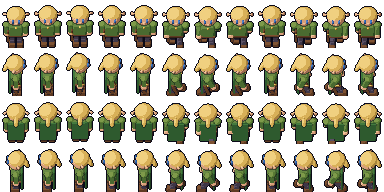
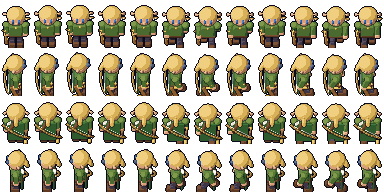
An emerald in Queen Alyssa's circlet; Beckolas's longbow and quiver, and a sword you can see
Claude-Session: https://claude.ai/code/session_012fRrXZHBmpRtnLUqLRWaUW

diff --git a/tools/bridge-art/characters.py b/tools/bridge-art/characters.py
@@ -242,10 +242,11 @@ NPCS = {
     'npc-alyssa':    dict(skin='skin0', shirt=('#2a5a2a', '#3e7a38', '#5a9a4a'), skirt=('#2a5a2a', '#3e7a38', '#5a9a4a'),
                           trim=('#8a6a10', '#c89a20', '#f0d060'), belt=('#8a6a10', '#c89a20', '#f0d060'),
                           hair=('#a8843a', '#d8b058', '#f0d080'), long_hair='flowing', elf_ears=True,
-                          circlet=('#8a6a10', '#c89a20', '#f0d060'), gown=True, shoes=('#8a6a10', '#c89a20', '#f0d060'), pose='sit'),
+                          circlet=('#8a6a10', '#c89a20', '#f0d060'), gem=('#0a6a3a', '#18b060', '#80f0b0'), gown=True, shoes=('#8a6a10', '#c89a20', '#f0d060'), pose='sit'),
     'npc-beckolas':  dict(skin='skin', shirt=('#2e4a22', '#4a6a30', '#6a8a44'), armour=('#3a5a26', '#5a7a34', '#7e9a4a'),
                           cloak=('#1e3a1e', '#2e5a2e', '#447a3e'), trim=('#7a5a20', '#c8a040', '#f0d070'),
-                          hair=('#a8843a', '#d8b058', '#f0d080'), ponytail=True, elf_ears=True, sword=True,
+                          hair=('#a8843a', '#d8b058', '#f0d080'), ponytail=True, elf_ears=True, sword=True, bow=True,
+                          scabbard=('#5a3a1a', '#8a5a2a', '#b07a3a'), bowwood=('#6a4a20', '#a07a38', '#d0a858'), fletch=('#c8c0b0', '#ece4d4', '#ffffff'),
                           eye=('#1a3a6a', '#2a5aa0', '#4a80c8'), pose='stand'),
     'npc-elf-warden': dict(skin='skin', shirt=('#3a4a2a', '#56683a', '#748a50'), cloak=('#2a3a22', '#3e5430', '#566e42'),
                            hair=('#5a3a1a', '#8a5a2a', '#aa7a42'), long_hair=True, elf_ears=True, pose='stand'),
@@ -720,10 +721,33 @@ def build_human(spec):
     if 'cloak' in spec:          # hangs from the shoulders down the back
         add('cube', 'cloak', (0, 3.2, 10.6), (4.6, 0.6, 6.6), 'cloak', 'cloak', body, bevel=0.4)
         add('cube', 'cloak_clasp', (0, -2.9, 16.3), (0.6, 0.3, 0.6), 'trim' if 'trim' in spec else 'brass', 'torso', body)
-    if spec.get('sword'):        # a sheathed sword at the left hip, hilt forward
-        add('cube', 'scabbard', (-4.6, 0.6, 7.2), (0.5, 0.8, 3.6), 'leather', 'sword', body, rot=(-0.35, 0, 0), bevel=0.15)
-        add('cube', 'crossguard', (-4.6, -1.0, 11.0), (0.5, 1.5, 0.35), 'brass', 'sword', body)
-        add('cube', 'grip', (-4.6, -1.5, 12.4), (0.35, 0.35, 1.3), 'leather', 'sword', body, rot=(-0.35, 0, 0))
+    if spec.get('sword'):        # a long sheathed sword at the left hip, out from the body so it reads, hilt forward
+        add('cube', 'scabbard', (-5.6, 0.9, 6.0), (0.6, 0.9, 4.6), 'scabbard', 'sword', body, rot=(-0.4, 0, 0.12), bevel=0.2)
+        add('cube', 'chape', (-5.4, 2.6, 1.9), (0.7, 1.0, 0.6), 'brass', 'sword', body, rot=(-0.4, 0, 0.12))
+        add('cube', 'crossguard', (-6.0, -1.0, 10.4), (0.6, 2.0, 0.45), 'brass', 'sword', body)
+        add('cube', 'grip', (-6.0, -1.6, 11.8), (0.45, 0.45, 1.3), 'leather', 'sword', body, rot=(-0.4, 0, 0))
+        add('uv_sphere', 'pommel', (-6.0, -2.1, 13.2), (0.7, 0.7, 0.7), 'brass', 'sword', body, segments=8, ring_count=6)
+    if spec.get('bow'):          # a longbow slung across the back, a quiver of arrows over the right shoulder
+        tilt = math.radians(35)
+        prev = None
+        for i in range(11):
+            t = -1 + 2 * i / 10
+            u, v = t * 9.0, 2.2 * (1 - t * t)                  # along the bow, and the curve out from the back
+            p = (math.cos(tilt) * u, 4.2 + v, 12.0 + math.sin(tilt) * u)
+            if prev:
+                d = [p[j] - prev[j] for j in range(3)]
+                L = math.sqrt(sum(c * c for c in d))
+                mid = tuple((p[j] + prev[j]) / 2 for j in range(3))
+                add('cube', 'bow', mid, (0.38, 0.38, L / 2 + 0.1), 'bowwood', 'bow', body,
+                    rot=(-math.atan2(d[1], math.hypot(d[0], d[2])), math.atan2(d[0], d[2]), 0))
+            prev = p
+        a, b = (math.cos(tilt) * -9.0, 4.2, 12.0 + math.sin(tilt) * -9.0), (math.cos(tilt) * 9.0, 4.2, 12.0 + math.sin(tilt) * 9.0)
+        d = [b[j] - a[j] for j in range(3)]
+        add('cube', 'bowstring', tuple((a[j] + b[j]) / 2 for j in range(3)), (0.12, 0.12, 9.2), 'white', 'bowstring', body,
+            rot=(0, math.atan2(d[0], d[2]), 0))
+        add('cylinder', 'quiver', (2.6, 3.6, 14.0), (1.1, 1.1, 3.6), 'leather', 'quiver', body, rot=(0, -0.35, 0), vertices=10)
+        for k_, dx in enumerate((-0.5, 0.2, 0.8)):
+            add('cube', 'fletching', (3.9 + dx, 3.6 + 0.3 * k_, 18.0), (0.25, 0.6, 1.0), 'fletch', 'arrows', body, rot=(0, -0.35, 0))
     if 'apron' in spec:
         add('cube', 'apron', (0, -2.95, 9.6), (3.4, 0.35, 4.2), 'apron', 'torso', body, bevel=0.2)
     if 'vest' in spec:
@@ -778,6 +802,8 @@ def build_human(spec):
         add('torus', 'circlet', (0, 0.3, 7.6), (1, 0.98, 0.6), 'circlet', 'hat', head,
             major_radius=5.15, minor_radius=0.32, major_segments=24, minor_segments=5)
         add('uv_sphere', 'circlet_leaf', (0, -4.9, 8.0), (0.9, 0.35, 1.2), 'circlet', 'hat', head, segments=8, ring_count=6)
+        if 'gem' in spec:        # a stone set in the leaf
+            add('uv_sphere', 'circlet_gem', (0, -5.3, 8.0), (0.65, 0.4, 0.75), 'gem', 'gem', head, segments=8, ring_count=6)
     if 'hood' in spec:
         add('uv_sphere', 'hood', (0, 1.2, 5.8), (5.7, 5.4, 5.6), 'hood', 'hood', head, segments=20, ring_count=10)
         add('cone', 'hood_drape', (0, 1.6, 0.4), (1, 1, 1), 'hood', 'hood', head, vertices=14, radius1=5.0, radius2=3.2, depth=3.0)
@@ -841,7 +867,7 @@ else:
     if 'sleeve' in spec:
         tones['sleeve'] = FIXED[spec['sleeve']] if spec['sleeve'] in FIXED else FIXED[spec['skin']]
     for key in ('apron', 'vest', 'beanie', 'cap', 'skirt', 'hood', 'witch_hat', 'straw_hat', 'crown',
-                'belt', 'trim', 'cloak', 'armour', 'circlet', 'eye', 'shoes'):
+                'belt', 'trim', 'cloak', 'armour', 'circlet', 'eye', 'shoes', 'gem', 'scabbard', 'bowwood', 'fletch'):
         if key in spec:
             tones[key] = spec[key]
     VARIANTS = {WHO.replace('npc-', ''): tones}
